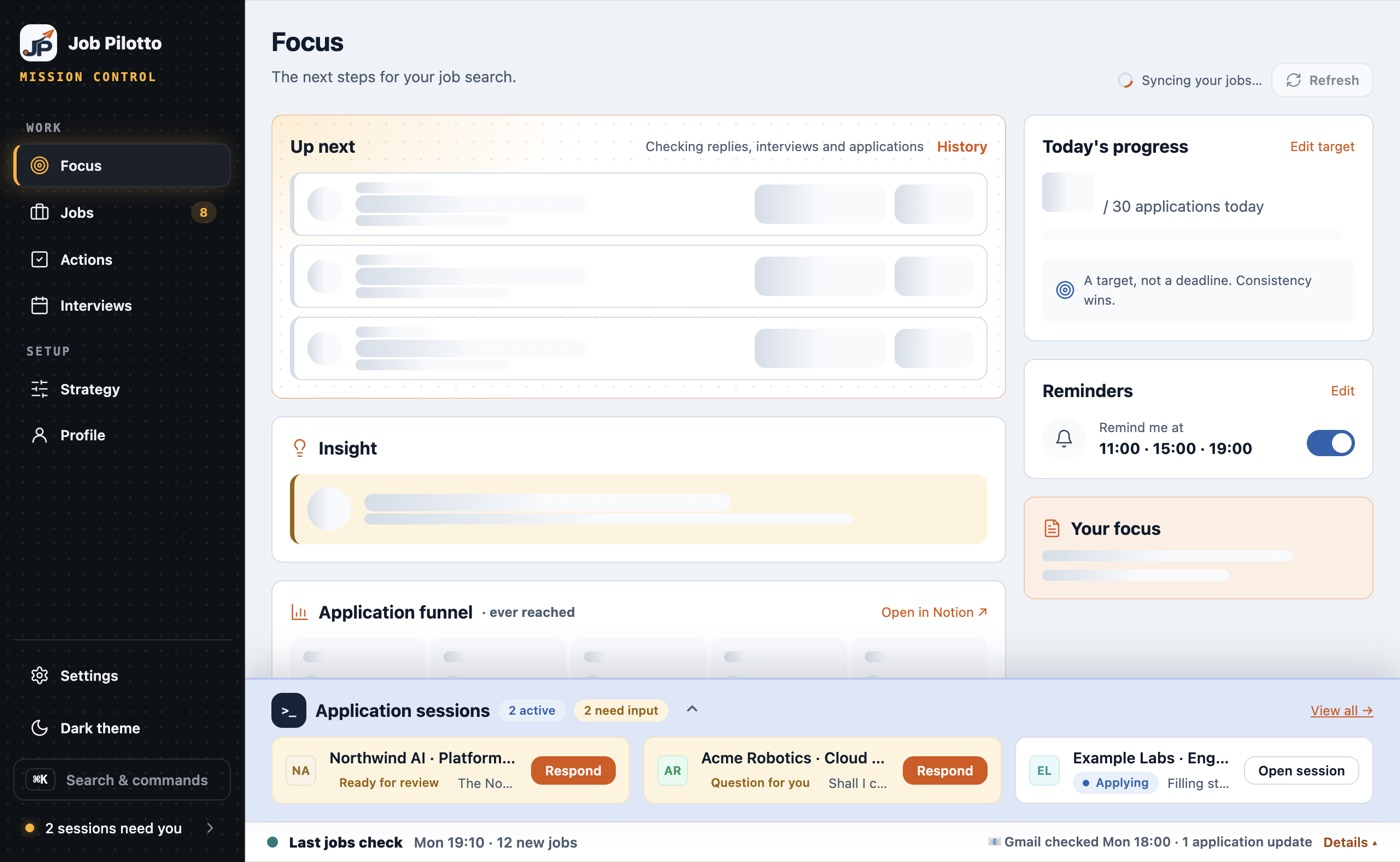
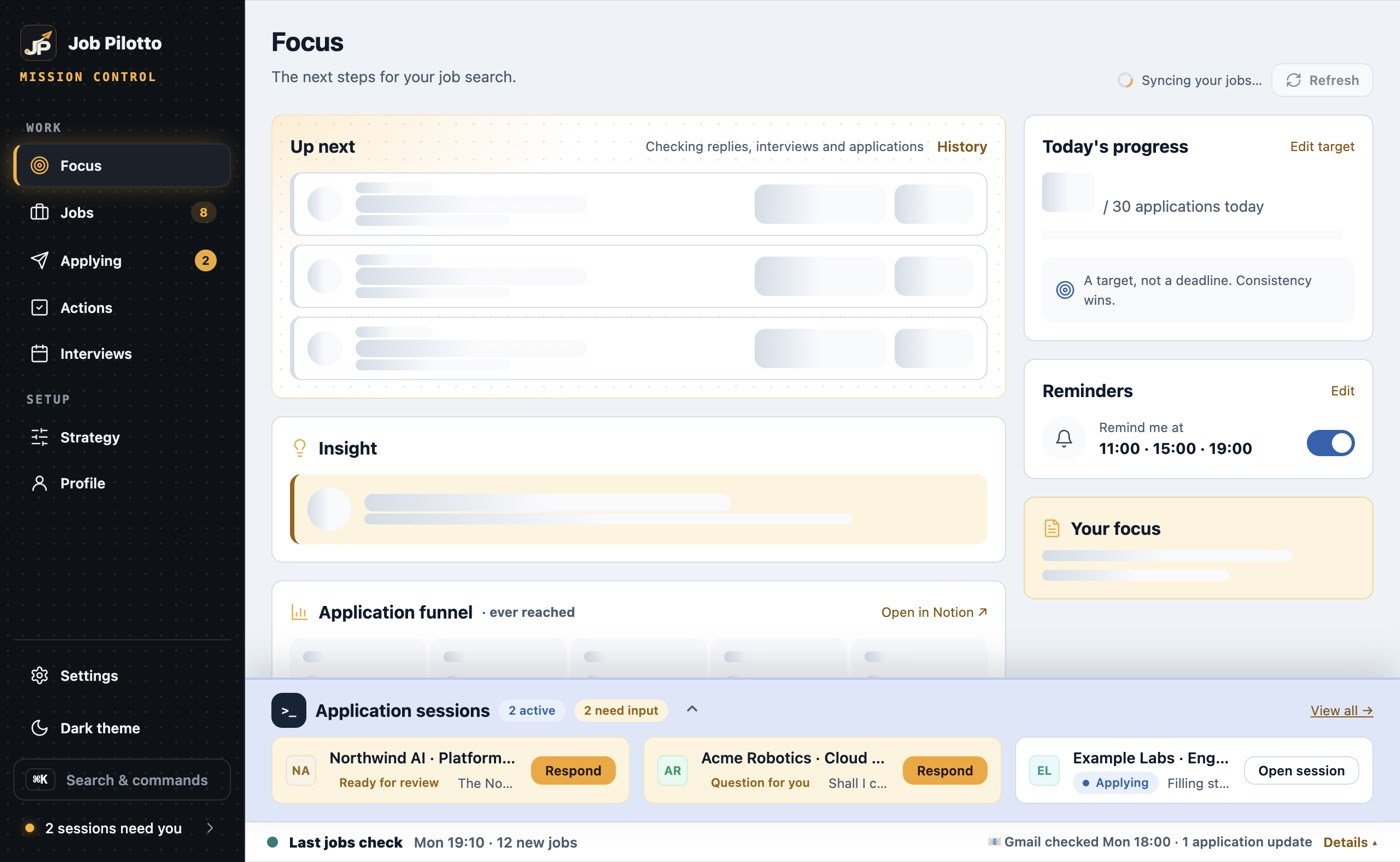
Desktop: amber accent; one main button on the session page
- The accent moves from orange to the board's amber (tokens.css): primary buttons are amber with dark
  text (--on-signal); links and accent text use a darker amber ink (--signal-ink) so they stay readable
- Session page → What Claude needs from you: each row's action (Show it in the form, Looks right / keep it,
  Fill it in) is now a quiet outline button, so "Open filled form" is the one filled button on the page
- Reference screenshots refreshed

diff --git a/desktop/renderer/style.css b/desktop/renderer/style.css
@@ -5,21 +5,21 @@ h1 { font-size: var(--fs-2xl); line-height: 1.15; margin: 4px 0 8px; letter-spac
 h2 { font-size: var(--fs-xl); margin: 0 0 6px; }
 h3 { font-size: var(--fs-base); margin: 0 0 4px; }
 p { margin: 0 0 8px; }
-a { color: var(--signal); }
+a { color: var(--signal-ink); }
 code { font: var(--fs-sm) var(--font-mono); background: var(--sky); padding: 2px 6px; border-radius: var(--r-sm); word-break: break-all; }
 .muted { color: var(--muted); }
 .small, .fine { font-size: var(--fs-sm); }
 .fine { color: var(--muted); }
 .lede { font-size: var(--fs-base); color: var(--muted); max-width: 60ch; }
-.eyebrow { font: 600 var(--fs-xs) var(--font-mono); letter-spacing: .12em; text-transform: uppercase; color: var(--signal); }
+.eyebrow { font: 600 var(--fs-xs) var(--font-mono); letter-spacing: .12em; text-transform: uppercase; color: var(--signal-ink); }
 :focus-visible { outline: 3px solid var(--signal); outline-offset: 2px; }
 
 button { font: 600 var(--fs-md) var(--font-sans); border-radius: var(--r-md); padding: 8px 14px; cursor: pointer; border: 1px solid transparent; }
-button.primary { background: var(--signal); color: var(--on-accent); }
+button.primary { background: var(--signal); color: var(--on-signal); }
 button.primary:hover { filter: brightness(1.05); }
 button.secondary { background: var(--surface); color: var(--ink); border-color: var(--line); }
 button.ghost { background: transparent; color: var(--muted); }
-button.link { background: none; border: 0; padding: 0; color: var(--signal); font-weight: 600; }
+button.link { background: none; border: 0; padding: 0; color: var(--signal-ink); font-weight: 600; }
 button:disabled { opacity: .5; cursor: default; }
 label { display: block; font-weight: 600; font-size: var(--fs-md); margin: 12px 0 4px; }
 input, select, textarea { width: 100%; font: var(--fs-base) var(--font-sans); color: var(--ink); background: var(--surface);
@@ -120,7 +120,7 @@ main { overflow-y: auto; padding: 28px 32px; }
 .recent-row[data-state="error"] .activity-dot { background: var(--bad); }
 .recent-row[data-state="busy"] .activity-dot { background: var(--signal); animation: pulse 1.2s ease-in-out infinite; }
 .activity-selected { margin: 4px 0 8px; font-weight: 600; font-size: var(--fs-base); }
-.activity-notion { font-weight: 500; font-size: var(--fs-md); margin-left: 8px; color: var(--signal); }
+.activity-notion { font-weight: 500; font-size: var(--fs-md); margin-left: 8px; color: var(--signal-ink); }
 .activity-phases li.update::before { content: '•'; color: var(--signal); }
 .activity-phases { list-style: none; padding: 0; margin: 0 0 12px; display: grid; gap: 6px; font-size: var(--fs-base); }
 .activity-phases li::before { display: inline-block; width: 22px; }
@@ -233,11 +233,11 @@ details.questions > p { margin: 0 0 6px; }
 .toast b { font-size: var(--fs-base); } .toast small { color: var(--on-navy-2); }
 /* Row main button: one colour per step, so the next action stands out. */
 .row-actions .row-main { border-radius: var(--r-md); font-weight: 700; border: 1.5px solid transparent; }
-.row-actions .state-prepare { background: var(--surface); color: var(--signal); border-color: var(--signal); }
+.row-actions .state-prepare { background: var(--surface); color: var(--signal-ink); border-color: var(--signal); }
 .row-actions .state-prepare:hover { background: var(--signal-soft); }
 .row-actions .state-busy { background: var(--signal-soft); color: var(--signal-ink); border-color: var(--signal-line); }
 .row-actions .row-main.state-busy::before { border-color: color-mix(in srgb, var(--signal-ink) 30%, transparent); border-top-color: var(--signal-ink); }
-.row-actions .state-apply { background: var(--signal); color: var(--on-accent); }
+.row-actions .state-apply { background: var(--signal); color: var(--on-signal); }
 .row-actions .state-apply:hover { filter: brightness(1.08); }
 .row-actions .state-opened { background: var(--teal-soft); color: var(--teal); border-color: var(--teal-line); }
 @keyframes pulse { 50% { opacity: 0.45; } }
@@ -390,7 +390,7 @@ button.with-icon .icon { width: 15px; height: 15px; }
 .fit-label { display: none; font-size: var(--fs-xs); font-weight: 600; color: color-mix(in srgb, var(--tone) 80%, var(--ink)); white-space: nowrap; }
 .title-line { display: flex; align-items: baseline; gap: 8px; min-width: 0; }
 .role a { color: var(--ink); font-weight: 700; font-size: var(--fs-md); text-decoration: none; line-height: 1.3; }
-.role a:hover { color: var(--signal); }
+.role a:hover { color: var(--signal-ink); }
 .reason { color: var(--muted); font-size: var(--fs-sm); line-height: 1.4; margin-top: 2px;
   display: -webkit-box; -webkit-box-orient: vertical; -webkit-line-clamp: 2; overflow: hidden; }
 .tags { display: flex; flex-wrap: wrap; gap: 5px; margin-top: 6px; }
@@ -406,12 +406,12 @@ button.with-icon .icon { width: 15px; height: 15px; }
 .row-actions { flex-wrap: nowrap; gap: 6px; padding-top: 2px; justify-content: flex-end; align-items: center; }
 /* Wide enough for the longest label ("Apply with Claude"); every row shares it so the rows line up. */
 .row-actions .row-main { width: 10em; padding: 7px 6px; font-size: var(--fs-sm); border-radius: var(--r-sm); overflow: hidden; text-overflow: ellipsis; }
-.row-actions .state-prepare { background: var(--signal); color: var(--on-accent); border-color: var(--signal); }
+.row-actions .state-prepare { background: var(--signal); color: var(--on-signal); border-color: var(--signal); }
 .row-actions .state-prepare:hover { background: var(--signal); filter: brightness(1.08); }
 .icon-btn { width: 32px; height: 32px; padding: 0; display: grid; place-items: center; color: var(--ink); border-radius: var(--r-sm); flex: none; }
 .icon-btn:hover { background: var(--bg); }
 .bookmark { display: none; }
-.bookmark.on { color: var(--signal); opacity: 1; }
+.bookmark.on { color: var(--signal-ink); opacity: 1; }
 .bookmark.on .icon { fill: currentColor; }
 
 /* The list, compact: ring + match label | title, company line, one-line reason, tags | save, main, more */
@@ -624,7 +624,7 @@ details.manual { margin-top: 18px; }
 .review .icon-btn { background: transparent; border: 0; color: var(--muted); font-size: var(--fs-lg); padding: 2px 6px; cursor: pointer; }
 .review input.add { font-size: var(--fs-md); padding: 6px 10px; }
 .review .questions-card { background: var(--signal-soft); border-color: var(--signal-line); }
-.review .bang { display: inline-grid; place-items: center; width: 22px; height: 22px; border-radius: 50%; background: var(--signal); color: var(--on-accent); font-size: var(--fs-md); margin-right: 4px; }
+.review .bang { display: inline-grid; place-items: center; width: 22px; height: 22px; border-radius: 50%; background: var(--signal); color: var(--on-signal); font-size: var(--fs-md); margin-right: 4px; }
 .review .q-row { display: grid; grid-template-columns: 1fr auto auto; gap: 10px; align-items: center; background: var(--surface); border-radius: var(--r-md); padding: 8px 12px; font-size: var(--fs-base); }
 .review .q-row + .q-row { margin-top: 6px; }
 .review .q-row input { grid-column: 2 / 4; font-size: var(--fs-md); }
@@ -1016,7 +1016,7 @@ main { min-width: 0; }
 .task-words { flex: 1; min-width: 0; display: flex; flex-direction: column; gap: 2px; }
 .task-words b { font-size: var(--fs-base); }
 .task-words .muted { font-size: var(--fs-sm); }
-.task-card button.action { flex: none; min-width: 72px; display: block; padding: 8px 18px; text-align: center; font-weight: 600; background: var(--signal); color: var(--on-accent); border-color: transparent; }
+.task-card button.action { flex: none; min-width: 72px; display: block; padding: 8px 18px; text-align: center; font-weight: 600; background: var(--signal); color: var(--on-signal); border-color: transparent; }
 .runs-card { margin-top: 0; }
 .runs-table { list-style: none; padding: 0; margin: 0; }
 .runs-row { display: grid; grid-template-columns: 32px 200px 120px 130px minmax(0, 1fr) 16px; align-items: center; gap: var(--sp-3);

diff --git a/desktop/renderer/pages/session-needs.js b/desktop/renderer/pages/session-needs.js
@@ -102,7 +102,7 @@ export function emptyRow(label, item) {
   const li = el('li', 'ss-need is-empty'), body = el('div', 'ss-need-body'), actions = el('div', 'ss-need-actions');
   li.dataset.empty = label;
   body.append(el('div', '', `${label.replace(/\s*\*\s*$/, '')} is still empty in the form.`));
-  actions.append(smallButton('Show it in the form', 'primary', event => showInForm(item, label, event.currentTarget)));
+  actions.append(smallButton('Show it in the form', 'secondary', event => showInForm(item, label, event.currentTarget)));
   body.append(actions);
   li.append(el('span', 'ss-need-glyph', '✏'), body);
   return li;
@@ -147,12 +147,12 @@ export function needRow(need, item) {
   const name = need.label || 'this';
   if (need.kind === 'agree') {
     // Chrome comes forward on the form and the page scrolls to this field (extension/review.js picks it up).
-    actions.append(smallButton('Show it in the form', 'primary', event => showInForm(item, agreeLabel(need), event.currentTarget)),
+    actions.append(smallButton('Show it in the form', 'secondary', event => showInForm(item, agreeLabel(need), event.currentTarget)),
       smallButton('Done', 'secondary', () => doneRow(li, key, 'Ticked in the form')));
     li.dataset.watch = watchId(need.text);
   } else {
     const change = !!need.recommended && !KEEP.test(need.recommended);
-    actions.append(smallButton(need.recommended ? `✓ ${need.recommended}` : '✓ Looks right', 'primary', () => {
+    actions.append(smallButton(need.recommended ? `✓ ${need.recommended}` : '✓ Looks right', 'secondary', () => {
       if (change) say(`${name}: ${need.recommended}. Change it in the form, then tell me.`);
       doneRow(li, key, change ? `Asked Claude: ${need.recommended}` : 'Checked');
     }, change ? offline(item) : ''));
@@ -211,7 +211,7 @@ export function askRow(need, item) {
   const key = `${item.id}|${need.text}`;
   li.dataset.key = key;
   li.dataset.watch = watchId(need.text);  // the form page says when it has an answer
-  const fill = smallButton('Fill it in', 'primary', () => {
+  const fill = smallButton('Fill it in', 'secondary', () => {
     const value = input.value.trim();
     if (!value) { note.textContent = 'Write an answer first'; input.focus(); return; }
     say(`Fill "${need.question}" in the form with: ${value}`);

diff --git a/desktop/renderer/tokens.css b/desktop/renderer/tokens.css
@@ -33,11 +33,12 @@
   --on-rail-3: #8b94a3;
 
   /* Brand accent: orange (actions), teal (done), amber (the board) */
-  --signal: #d9540b;
-  --signal-rgb: 217 84 11;
-  --signal-ink: #a3470f;    /* orange text on the soft background */
-  --signal-soft: #fdeee4;
-  --signal-line: #f5c9ab;
+  --signal: #f5a524;        /* the accent: board amber (was orange) */
+  --signal-rgb: 245 165 36;
+  --on-signal: #1d1504;     /* text on an amber fill (buttons) */
+  --signal-ink: #8a5800;    /* amber as text: links, labels (readable on white) */
+  --signal-soft: #fdf3dc;
+  --signal-line: #f1d79c;
   --teal: #0e7c7b;
   --teal-soft: #e3f3f2;
   --teal-line: #a9d8d6;
@@ -114,11 +115,12 @@
     --navy-active: #1b2735;
     --navy-line: #2f3f51;
 
-    --signal: #e8661b;
-    --signal-rgb: 232 102 27;
-    --signal-ink: #ffab76;
-    --signal-soft: #2a1a10;
-    --signal-line: #5c3218;
+    --signal: #ffb224;
+    --signal-rgb: 255 178 36;
+    --on-signal: #1d1504;
+    --signal-ink: #ffc95c;
+    --signal-soft: #2a2210;
+    --signal-line: #5a4516;
     --teal: #2aa79c;
     --teal-soft: #0f2a2a;
     --teal-line: #1f5553;
